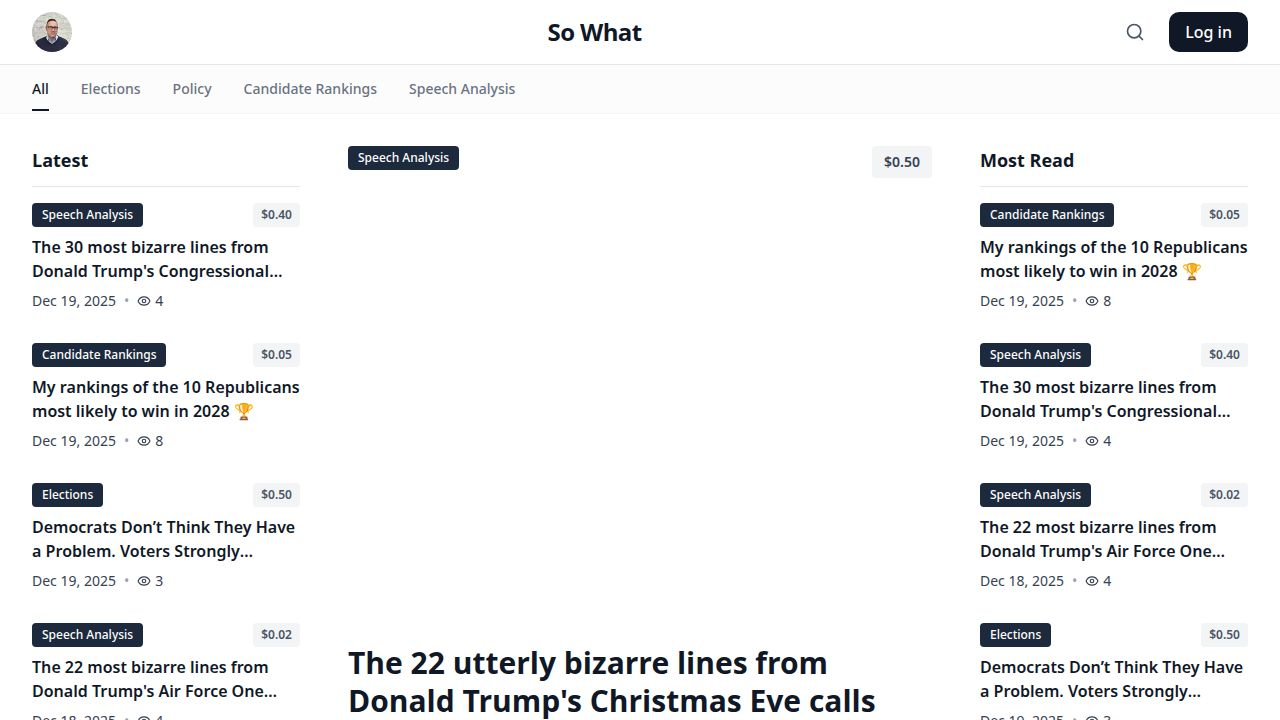
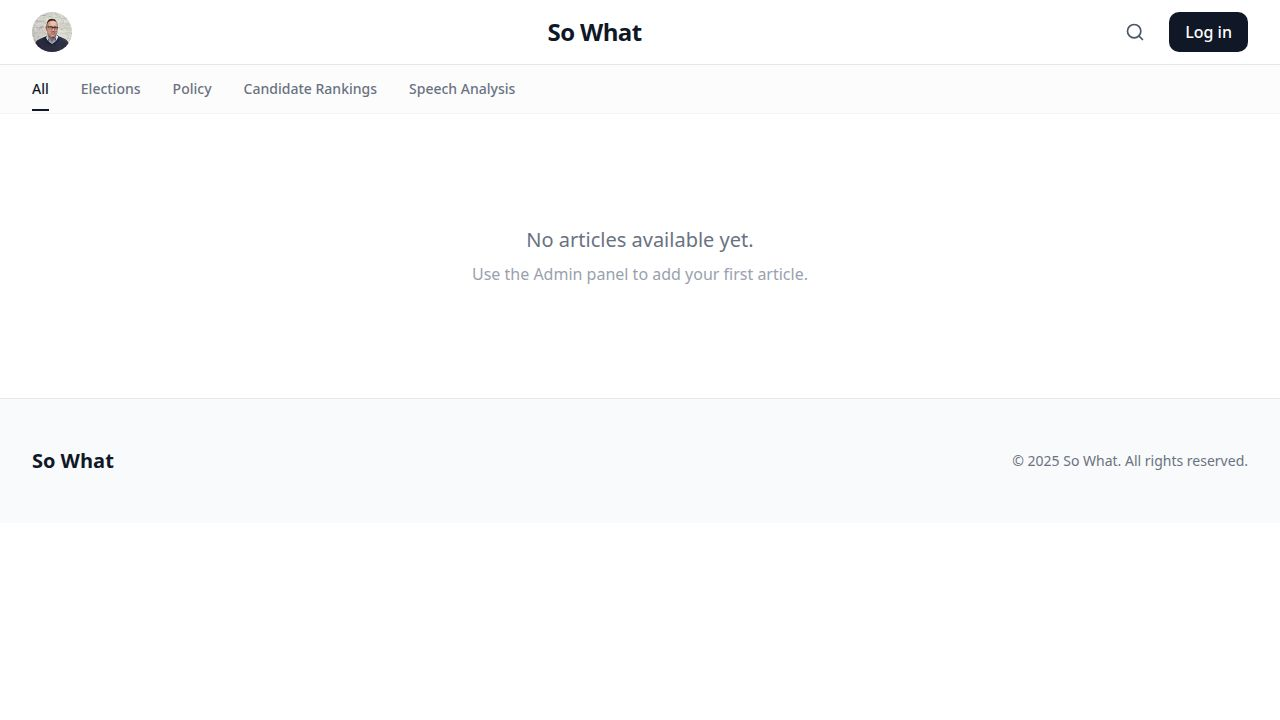
Separate article loading for public and admin views
Introduces separate state and loading functions for admin articles (`adminArticles`) and public articles (`articles`). Removes the global `loadArticles()` call from the initial context mount effect, delegating article loading to individual pages (`HomePage`, `CategoryPage`, `AdminPage`) to prevent race conditions and ensure appropriate content fetching based on user authentication status and context. Updates `AdminPage` to consume `adminArticles` state.

Replit-Commit-Author: Agent
Replit-Commit-Session-Id: ba035edc-ef96-4aab-9d0f-8b20444ad099
Replit-Commit-Checkpoint-Type: intermediate_checkpoint
Replit-Commit-Event-Id: d48ca8db-1ec9-4772-87f8-46649a4afef8
Replit-Commit-Screenshot-Url: https://storage.googleapis.com/screenshot-production-us-central1/196ebd33-0cdf-4843-9950-ba035bb908ad/ba035edc-ef96-4aab-9d0f-8b20444ad099/cEWDqQB
Replit-Helium-Checkpoint-Created: true

diff --git a/client/src/context/VideoStoreContext.tsx b/client/src/context/VideoStoreContext.tsx
@@ -80,6 +80,7 @@ interface VideoStoreContextType {
   setFeaturedEpisodes: (episodeIds: string[]) => Promise<void>;
   getAllEpisodes: () => Episode[];
   articles: Article[];
+  adminArticles: Article[];
   featuredArticles: Article[];
   latestArticles: Article[];
   mostReadArticles: Article[];
@@ -109,19 +110,19 @@ export function VideoStoreProvider({ children }: { children: ReactNode }) {
   const [siteSettings, setSiteSettings] = useState<SiteSettings>(defaultSiteSettings);
   const [featuredEpisodes, setFeaturedEpisodesState] = useState<FeaturedEpisode[]>([]);
   const [articles, setArticles] = useState<Article[]>([]);
+  const [adminArticles, setAdminArticles] = useState<Article[]>([]);
   const [featuredArticles, setFeaturedArticles] = useState<Article[]>([]);
   const [latestArticles, setLatestArticles] = useState<Article[]>([]);
   const [mostReadArticles, setMostReadArticles] = useState<Article[]>([]);
 
-  // Load series, site settings, featured episodes, and articles on mount
+  // Load series, site settings, and featured episodes on mount
+  // Note: Articles are loaded by individual pages to avoid race conditions
+  // - Public pages call loadArticles() which fetches preview content
+  // - Admin page calls loadAdminArticles() which fetches full content
   useEffect(() => {
     loadSeries();
     loadSiteSettings();
     loadFeaturedEpisodes();
-    loadArticles();
-    loadFeaturedArticles();
-    loadLatestArticles();
-    loadMostReadArticles();
   }, []);
 
   // Check for cross-subdomain SSO session first, then local session
@@ -301,7 +302,7 @@ export function VideoStoreProvider({ children }: { children: ReactNode }) {
       });
       if (response.ok) {
         const data = await response.json();
-        setArticles(data);
+        setAdminArticles(data);
       }
     } catch (error) {
       console.error('Failed to load admin articles:', error);
@@ -797,6 +798,7 @@ export function VideoStoreProvider({ children }: { children: ReactNode }) {
       setFeaturedEpisodes,
       getAllEpisodes,
       articles,
+      adminArticles,
       featuredArticles,
       latestArticles,
       mostReadArticles,

diff --git a/client/src/pages/AdminPage.tsx b/client/src/pages/AdminPage.tsx
@@ -252,7 +252,7 @@ export default function AdminPage() {
   const { 
     series, addSeries, addEpisode, updateSeries, updateEpisode, deleteEpisode, setAdminToken,
     siteSettings, updateSiteSettings, featuredEpisodes, setFeaturedEpisodes, getAllEpisodes,
-    articles, addArticle, updateArticle, deleteArticle, refreshArticles, loadAdminArticles
+    adminArticles, addArticle, updateArticle, deleteArticle, refreshArticles, loadAdminArticles
   } = useVideoStore();
   const [showSeriesForm, setShowSeriesForm] = useState(false);
   const [editingSeriesId, setEditingSeriesId] = useState<string | null>(null);
@@ -559,7 +559,7 @@ export default function AdminPage() {
       <>
       {(showArticleForm || editingArticleId) && (
         <ArticleForm
-          article={editingArticleId ? articles.find(a => a.id.toString() === editingArticleId) : undefined}
+          article={editingArticleId ? adminArticles.find(a => a.id.toString() === editingArticleId) : undefined}
           onClose={() => {
             setShowArticleForm(false);
             setEditingArticleId(null);
@@ -577,14 +577,14 @@ export default function AdminPage() {
       )}
 
       <div className="space-y-4">
-        {articles.length === 0 ? (
+        {adminArticles.length === 0 ? (
           <div className="bg-slate-900/50 border border-slate-800 rounded-xl p-12 text-center">
             <FileText className="w-12 h-12 text-slate-600 mx-auto mb-4" />
             <h3 className="text-xl text-white mb-2">No Articles Yet</h3>
             <p className="text-slate-400 mb-4">Start by adding your first article</p>
           </div>
         ) : (
-          articles.map(article => (
+          adminArticles.map(article => (
             <div key={article.id} className="bg-slate-900/50 border border-slate-800 rounded-xl p-6 backdrop-blur-sm">
               <div className="flex flex-col md:flex-row justify-between items-start gap-4">
                 <div className="flex gap-4 flex-1">

diff --git a/client/src/pages/CategoryPage.tsx b/client/src/pages/CategoryPage.tsx
@@ -1,3 +1,4 @@
+import { useEffect } from 'react';
 import { Link, useParams } from 'react-router-dom';
 import { useVideoStore } from '../context/VideoStoreContext';
 import { ArrowLeft, Clock, Eye, TrendingUp, User } from 'lucide-react';
@@ -19,7 +20,11 @@ const categoryDescriptions: Record<string, string> = {
 export default function CategoryPage() {
   const params = useParams();
   const category = params.category as string;
-  const { articles, featuredArticles } = useVideoStore();
+  const { articles, featuredArticles, refreshArticles } = useVideoStore();
+
+  useEffect(() => {
+    refreshArticles();
+  }, []);
   
   const allArticles = [...articles, ...featuredArticles.filter(fa => !articles.find(a => a.id === fa.id))];
   const categoryArticles = allArticles.filter(a => a.category === category);

diff --git a/client/src/pages/HomePage.tsx b/client/src/pages/HomePage.tsx
@@ -322,13 +322,18 @@ export default function HomePage() {
     featuredEpisodes,
     user,
     walletBalance,
-    logout
+    logout,
+    refreshArticles
   } = useVideoStore();
   
   const [activeCategory, setActiveCategory] = useState('all');
   const [searchOpen, setSearchOpen] = useState(false);
   const [showAuthModal, setShowAuthModal] = useState(false);
   const [showPasswordReset, setShowPasswordReset] = useState(false);
+
+  useEffect(() => {
+    refreshArticles();
+  }, []);
 
   const allArticles = [...articles, ...featuredArticles.filter(fa => !articles.find(a => a.id === fa.id))];
 
